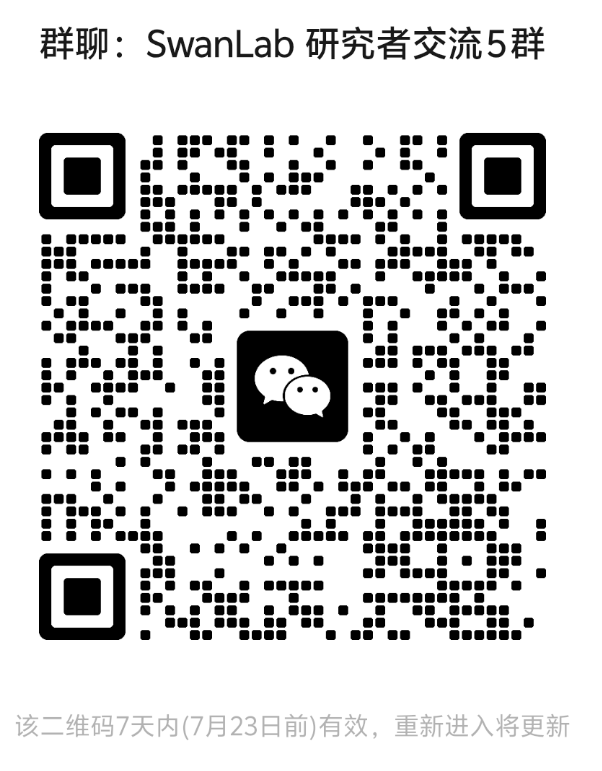
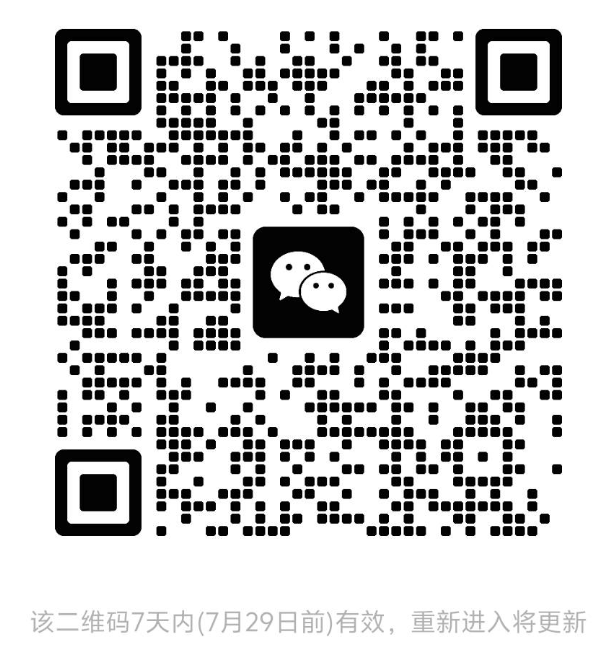
update wechat qr code

diff --git a/zh/examples/robot/lerobot-guide.md b/zh/examples/robot/lerobot-guide.md
@@ -490,7 +490,7 @@ python -m lerobot.scripts.train \
   --wandb.enable=false \
   --policy.repo_id=${HF_USER}/lrobot_model \
   --tracker=swanlab \
-  --swanlab.project=my_lrobot \
+  --swanlab.project=my_lerobot \
   --swanlab.mode=cloud
 ```
 
@@ -499,7 +499,7 @@ python -m lerobot.scripts.train \
 - `--output_dir` 为模型输出路径，最终模型输出在 `outputs/train/lrobot/checkpoints` 目录下。
 - `--policy.device=cuda` 代表我们使用 Nvidia GPU 训练，如果你需要在 Apple M系列芯片的电脑上开始训练，可以设置为 `--policy.device=mps`。
 
-- `--swanlab.project=my_lrobot` 代表 SwanLab 对应的项目名称。
+- `--swanlab.project=my_lerobot` 代表 SwanLab 对应的项目名称。
 
 训练大概需要几个小时的时间。在 3060 的 8G 笔记本上使用 50 组数据训练的时间大概为 6 小时，在 4090 和 A100 的电脑上使用 50 组数据训练的时间大概为 2~3 小时。
 
@@ -508,10 +508,10 @@ python -m lerobot.scripts.train \
 ```bash
 swanlab: 👋 Hi ink,welcome to swanlab!
 swanlab: Syncing run pig-13 to the cloud
-swanlab: 🏠 View project at https://swanlab.cn/@ink/my_lrobot
-swanlab: 🚀 View run at https://swanlab.cn/@ink/my_lrobot/runs/6er56ixwsjqq5v5chwxyz
+swanlab: 🏠 View project at https://swanlab.cn/@ink/my_lerobot
+swanlab: 🚀 View run at https://swanlab.cn/@ink/my_lerobot/runs/6er56ixwsjqq5v5chwxyz
 Logs will be synced with swanlab.
-INFO 2025-07-18 06:09:22 lab_utils.py:95 Track this run --> https://swanlab.cn/@ink/my_lrobot/runs/ogl0bza0i5xlorw08bp4r
+INFO 2025-07-18 06:09:22 lab_utils.py:95 Track this run --> https://swanlab.cn/@ink/my_lerobot/runs/ogl0bza0i5xlorw08bp4r
 INFO 2025-07-18 06:09:22 ts/train.py:134 Creating dataset
 Resolving data files: 100%|████████████████████████████████████████████████████████████| 50/50 [00:00<00:00, 157562.13it/s]
 === 调试信息 ===
@@ -553,7 +553,7 @@ INFO 2025-07-18 06:09:56 ts/train.py:239 step:400 smpl:3K ep:7 epch:0.13 loss:3.
 
 > [!Note]
 >
-> [示例 SwanLab 项目](https://swanlab.cn/@ink/my_lrobot/runs/6er56ixwsjqq5v5chwxyz/chart)
+> [示例 SwanLab 项目](https://swanlab.cn/@ink/my_lerobot/runs/6er56ixwsjqq5v5chwxyz/chart)
 
 ## 7. 模型推理 & 机械臂自主操控
 

diff --git a/en/examples/robot/lerobot-guide.md b/en/examples/robot/lerobot-guide.md
@@ -505,10 +505,10 @@ Training will take several hours. On a laptop with an 8GB 3060 GPU, training wit
 ```bash
 swanlab: 👋 Hi ink,welcome to swanlab!
 swanlab: Syncing run pig-13 to the cloud
-swanlab: 🏠 View project at https://swanlab.cn/@ink/my_lrobot
-swanlab: 🚀 View run at https://swanlab.cn/@ink/my_lrobot/runs/6er56ixwsjqq5v5chwxyz
+swanlab: 🏠 View project at https://swanlab.cn/@ink/my_lerobot
+swanlab: 🚀 View run at https://swanlab.cn/@ink/my_lerobot/runs/6er56ixwsjqq5v5chwxyz
 Logs will be synced with swanlab.
-INFO 2025-07-18 06:09:22 lab_utils.py:95 Track this run --> https://swanlab.cn/@ink/my_lrobot/runs/ogl0bza0i5xlorw08bp4r
+INFO 2025-07-18 06:09:22 lab_utils.py:95 Track this run --> https://swanlab.cn/@ink/my_lerobot/runs/ogl0bza0i5xlorw08bp4r
 INFO 2025-07-18 06:09:22 ts/train.py:134 Creating dataset
 Resolving data files: 100%|████████████████████████████████████████████████████████████| 50/50 [00:00<00:00, 157562.13it/s]
 === Debug Info ===
@@ -550,7 +550,7 @@ Key metrics to watch are `train/loss` and `train/grad_norm`. The model is typica
 
 > [!Note]
 >
-> [Example SwanLab Project](https://swanlab.cn/@ink/my_lrobot/runs/6er56ixwsjqq5v5chwxyz/chart)
+> [Example SwanLab Project](https://swanlab.cn/@ink/my_lerobot/runs/6er56ixwsjqq5v5chwxyz/chart)
 
 ## 7. Model Inference & Autonomous Arm Control
 
